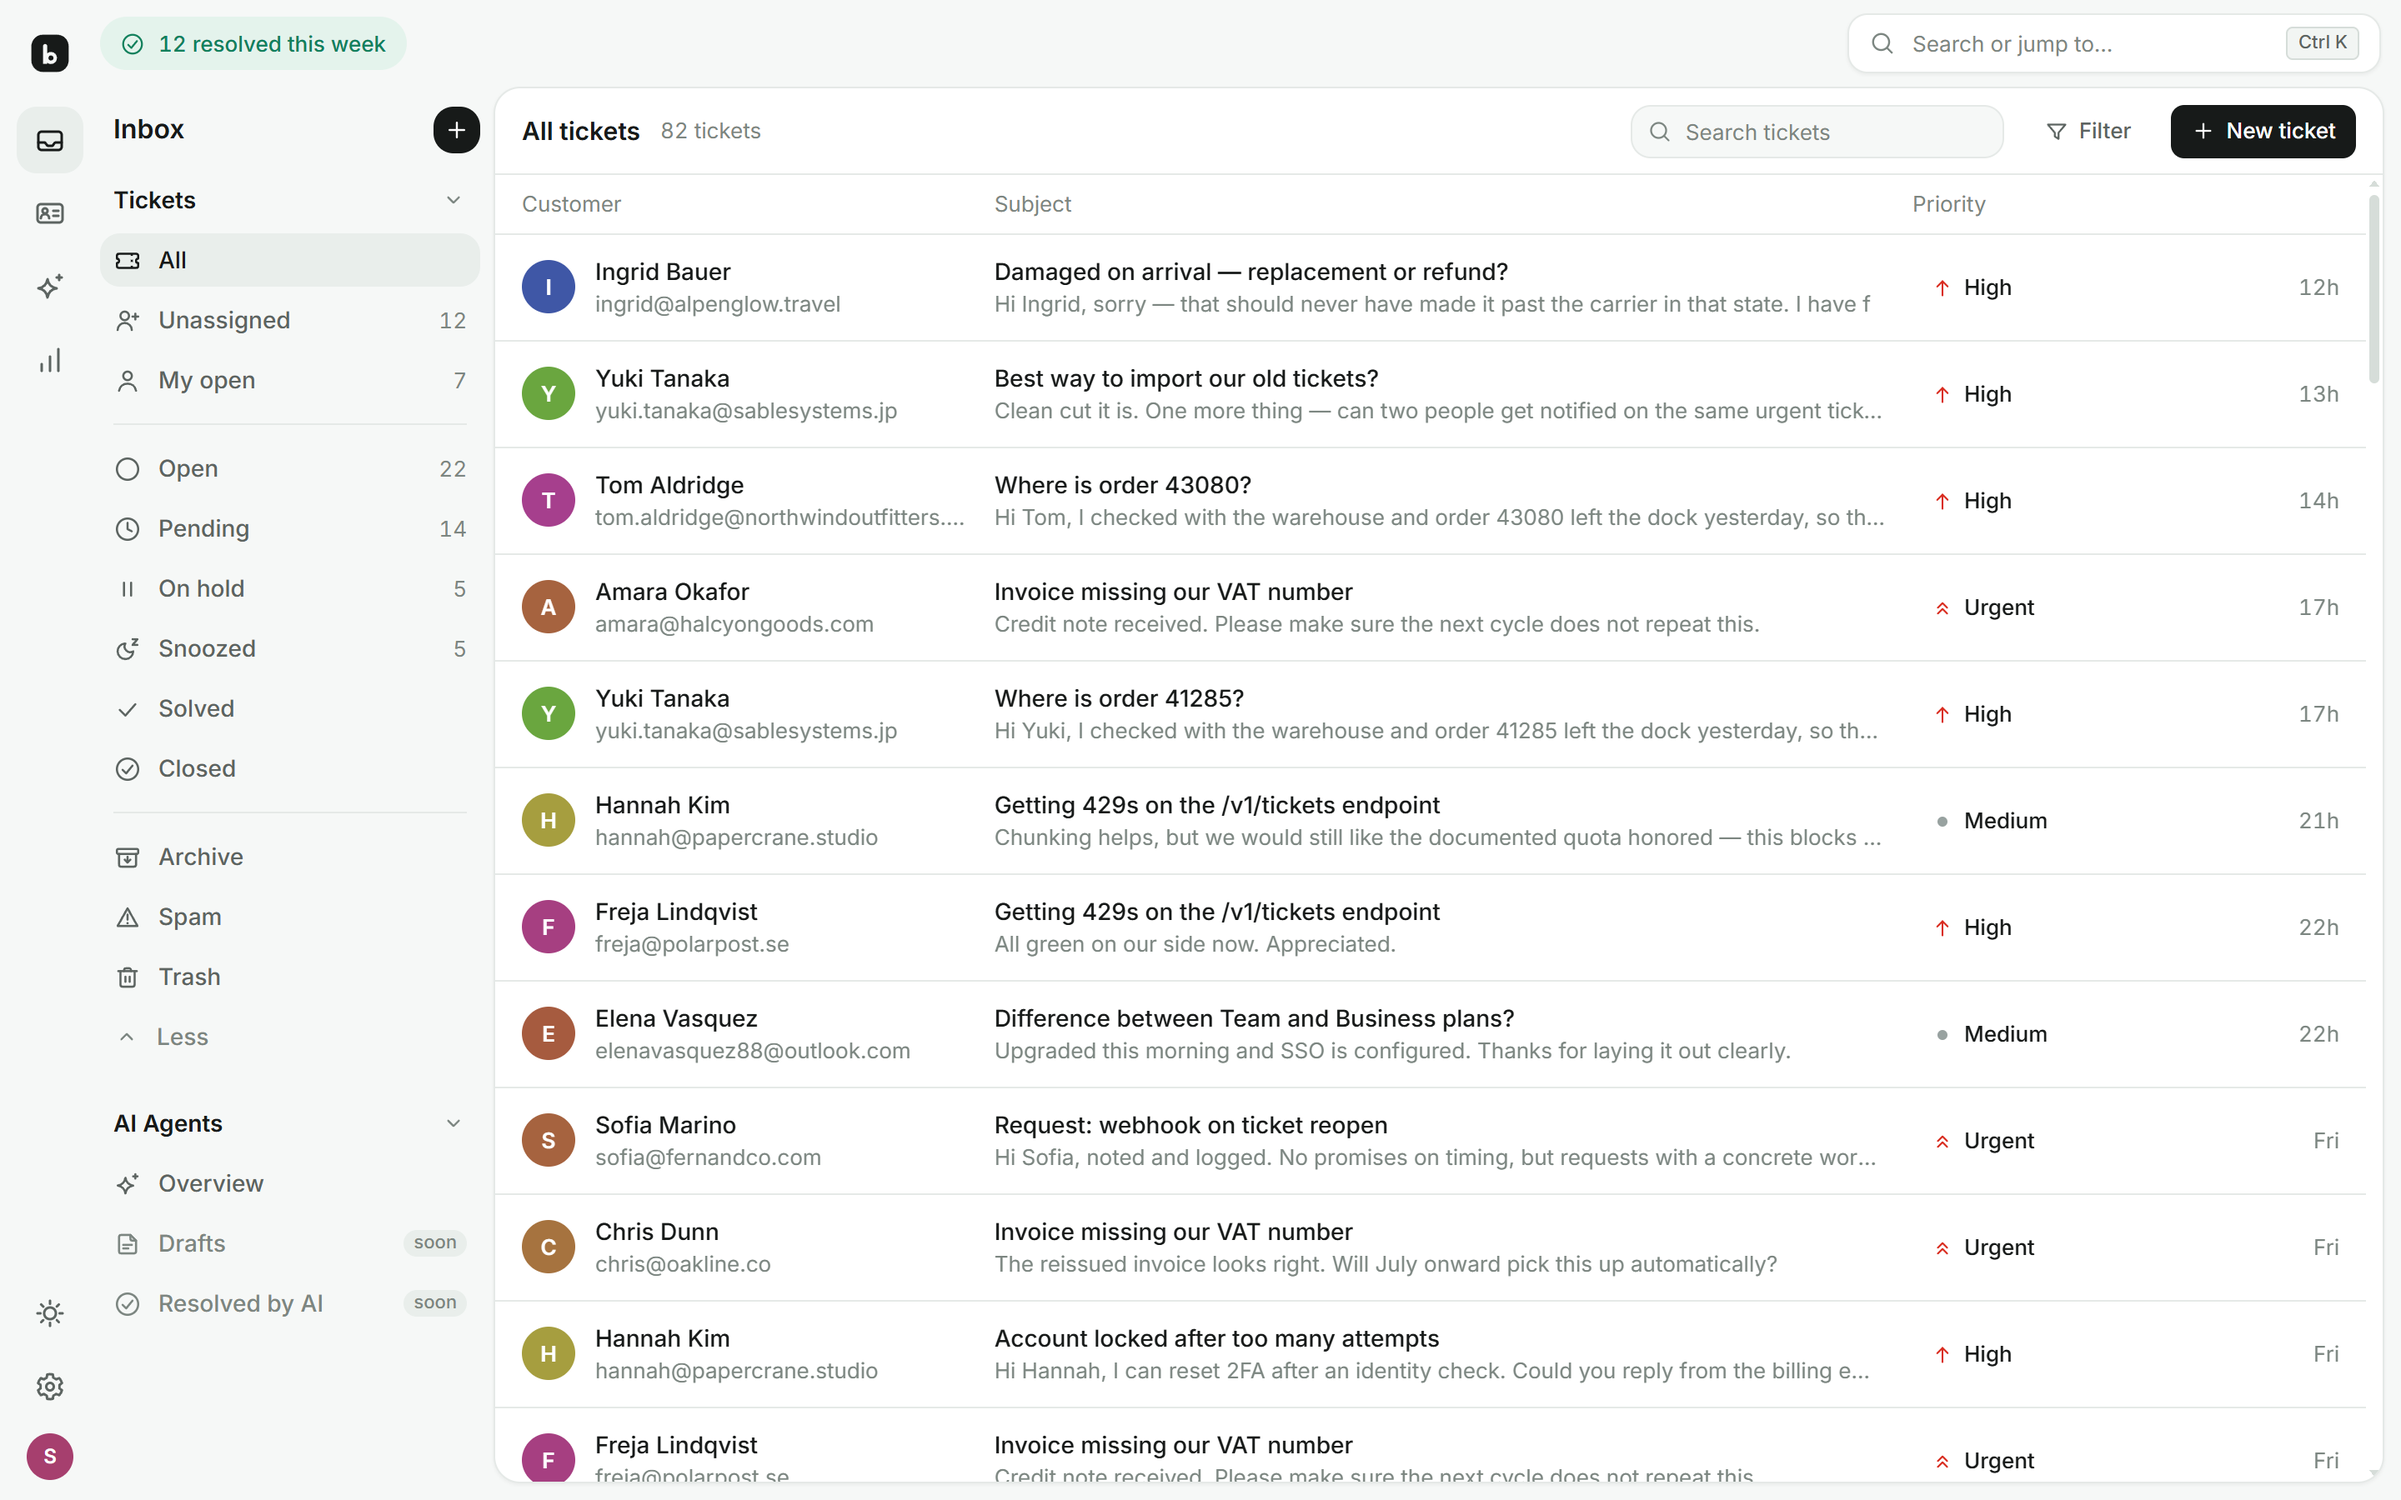
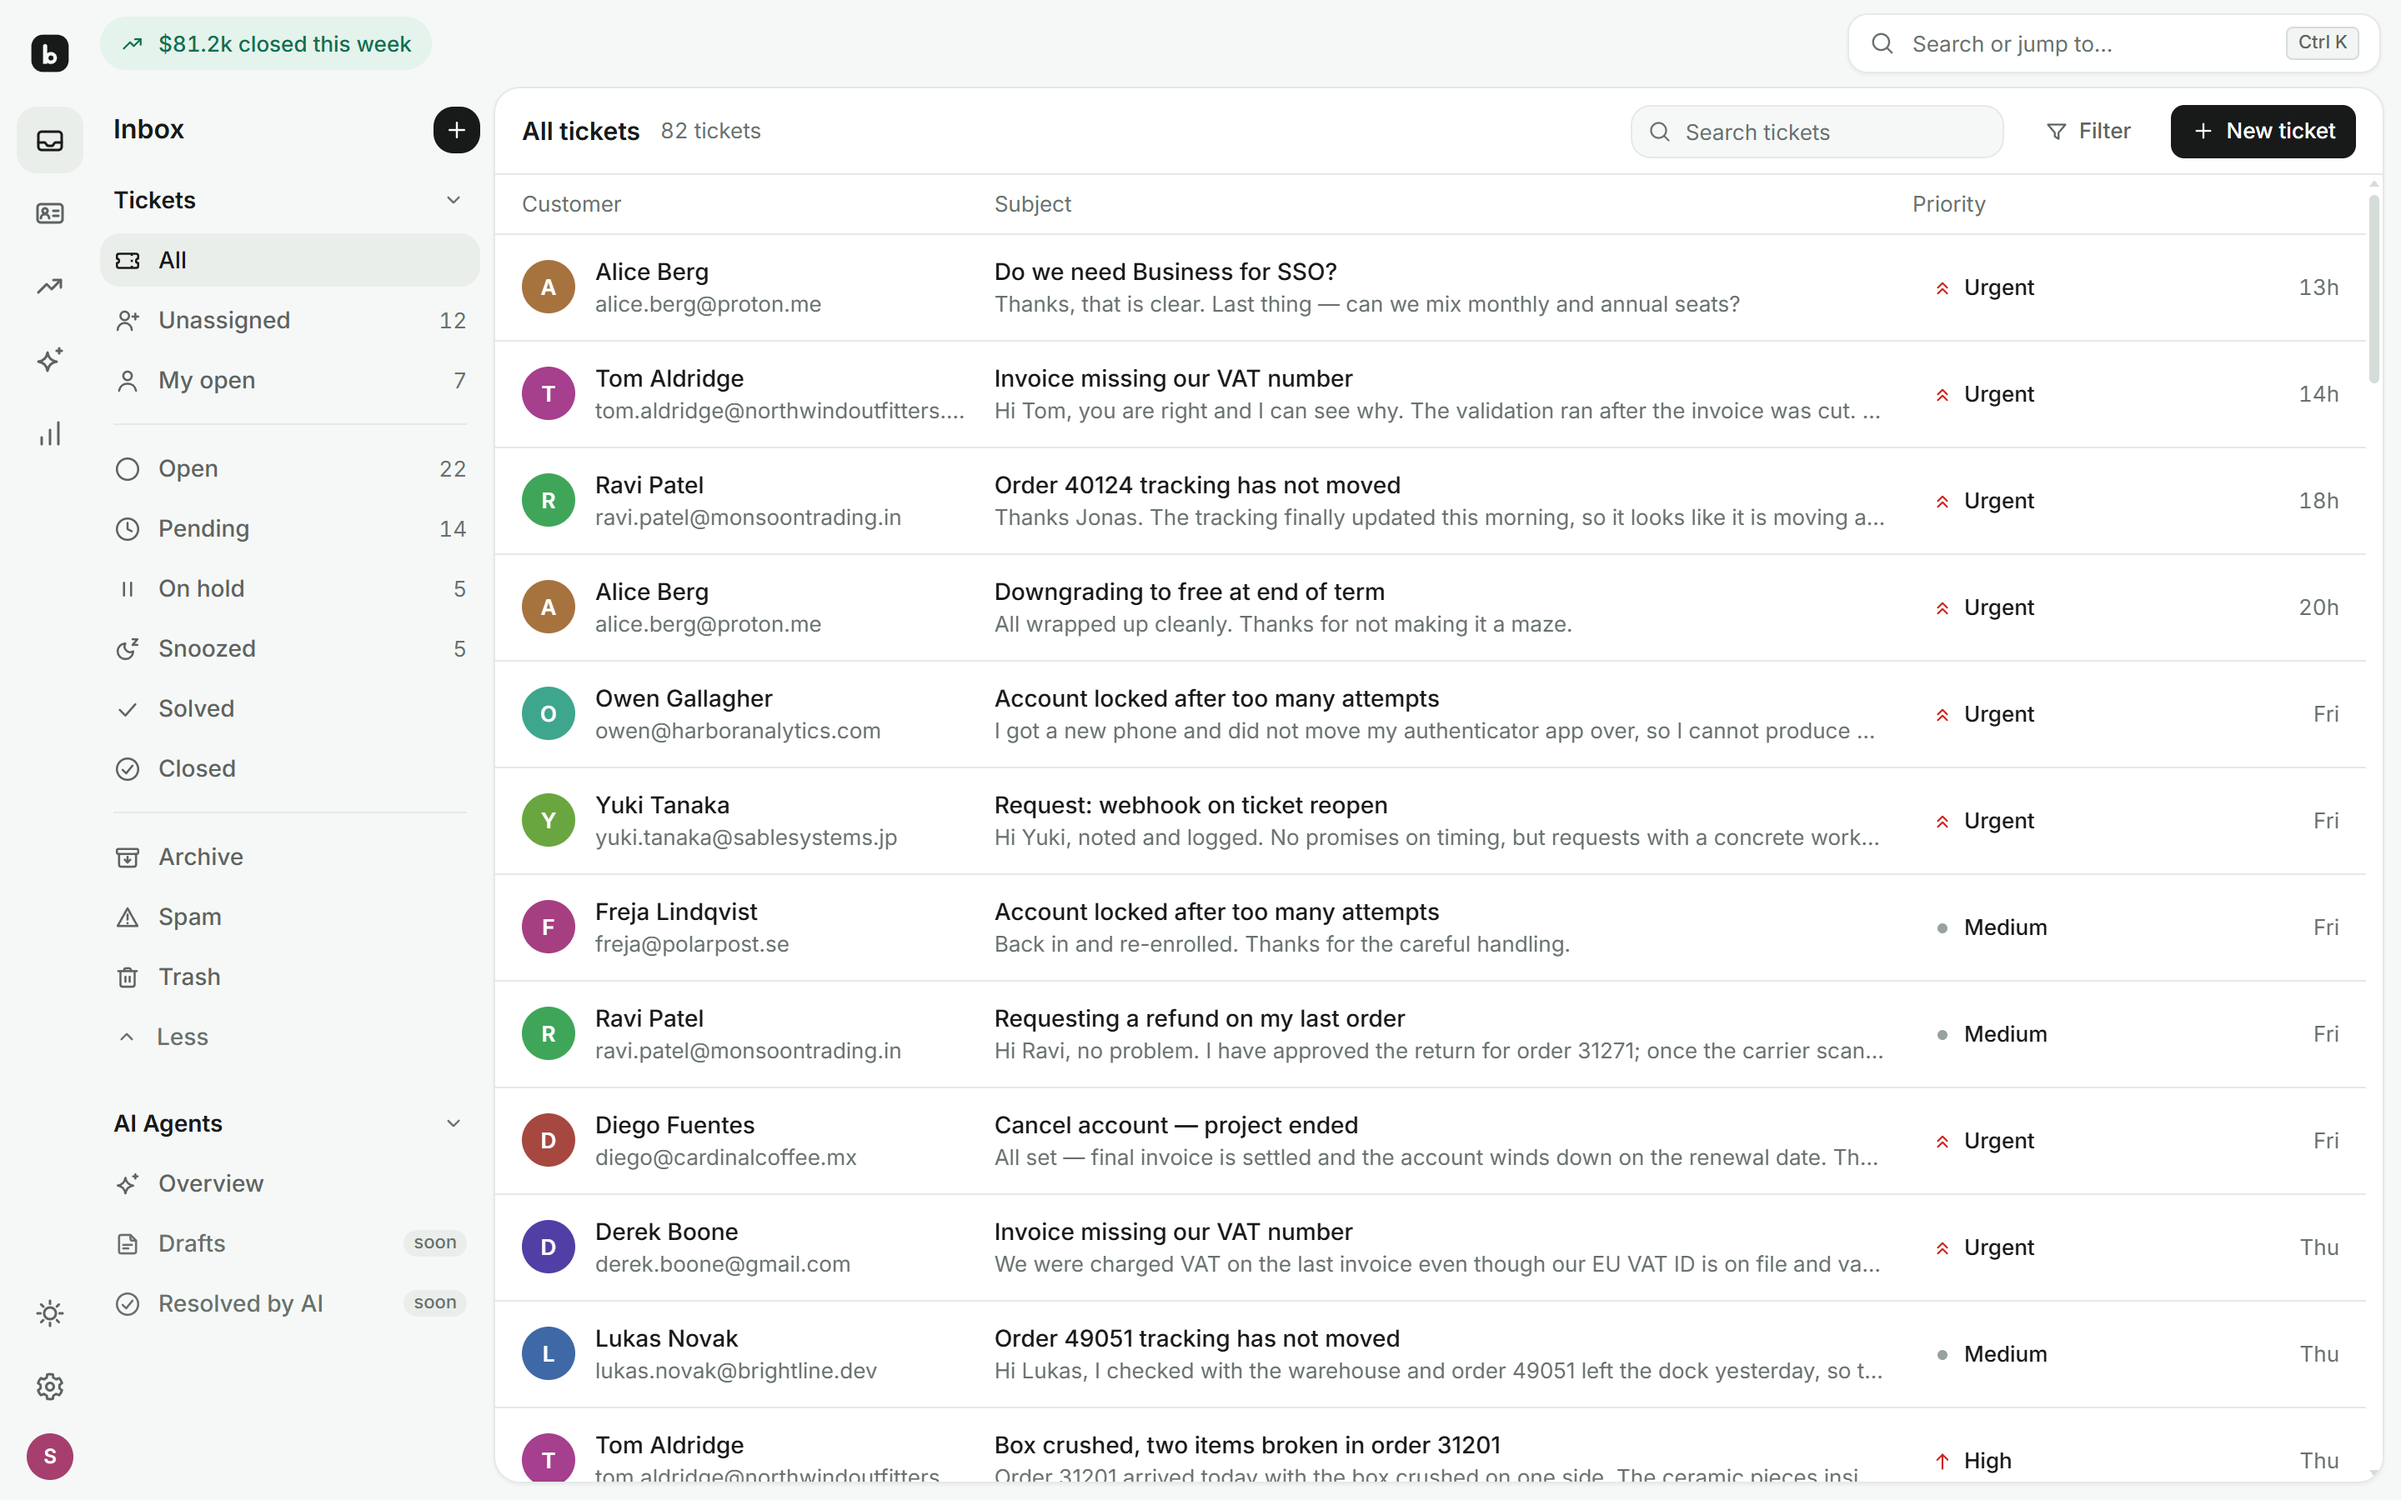
fix: meet WCAG AA contrast for text-3 and green/red badges (light theme)

diff --git a/web/src/styles/tokens.css b/web/src/styles/tokens.css
@@ -10,21 +10,21 @@
   --surface-3: #e9eeeb;
   --text: #171a19;
   --text-2: #5c6461;
-  --text-3: #7c8681;
+  --text-3: #68716d; /* darkened from #7c8681 to meet WCAG AA (4.5:1) on light surfaces */
   --line: #e5e9e7;
   --line-2: #d6ddd9;
   --accent: #171a19;
   --accent-fg: #ffffff;
-  --green: #12805c;
+  --green: #0f7050; /* AA-compliant on --green-bg (badge text) and white */
   --green-bg: #e4f3ec;
-  --red: #d92d20;
+  --red: #c9271b; /* AA-compliant on --red-bg (badge text) and white */
   --red-bg: #fdecea;
   --amber: #b54708;
   --amber-bg: #fef3e7;
   --blue: #175cd3;
   --blue-bg: #eaf1fd;
   --gray-dot: #98a2a0;
-  --focus: #12805c;
+  --focus: #0f7050;
   --frame-a: #dff3e7;
   --frame-b: #c9ead6;
 
